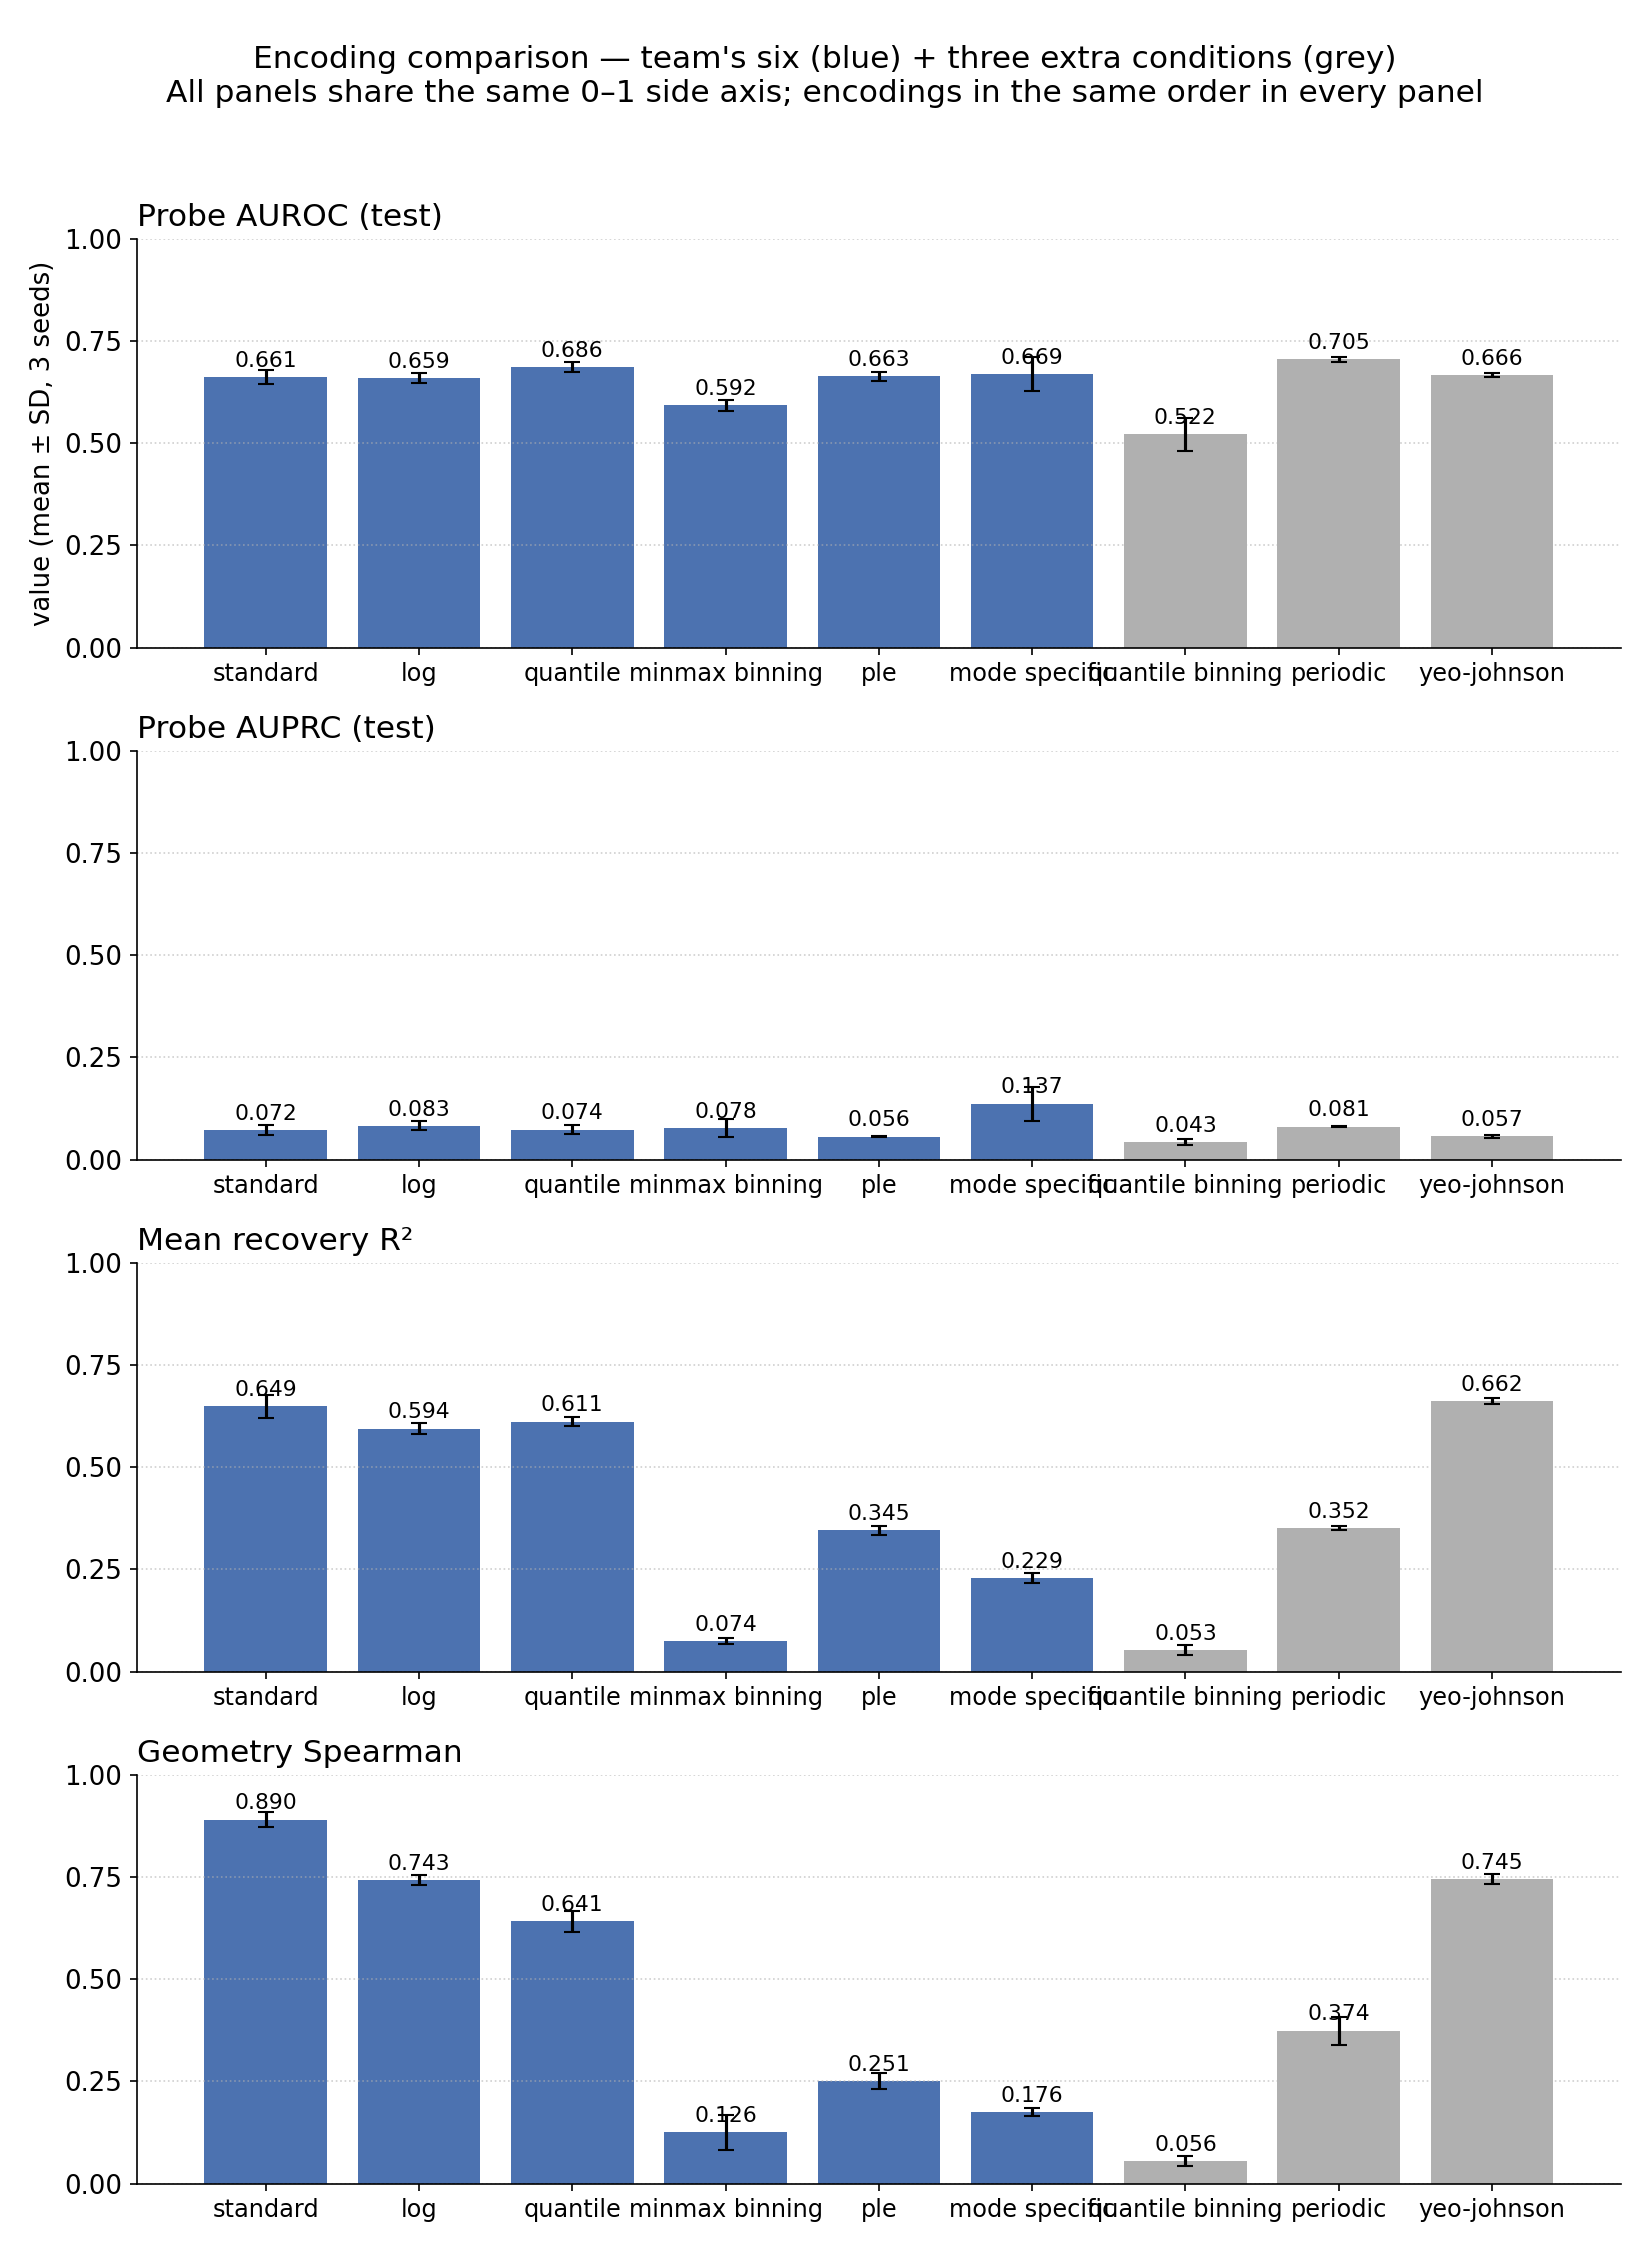
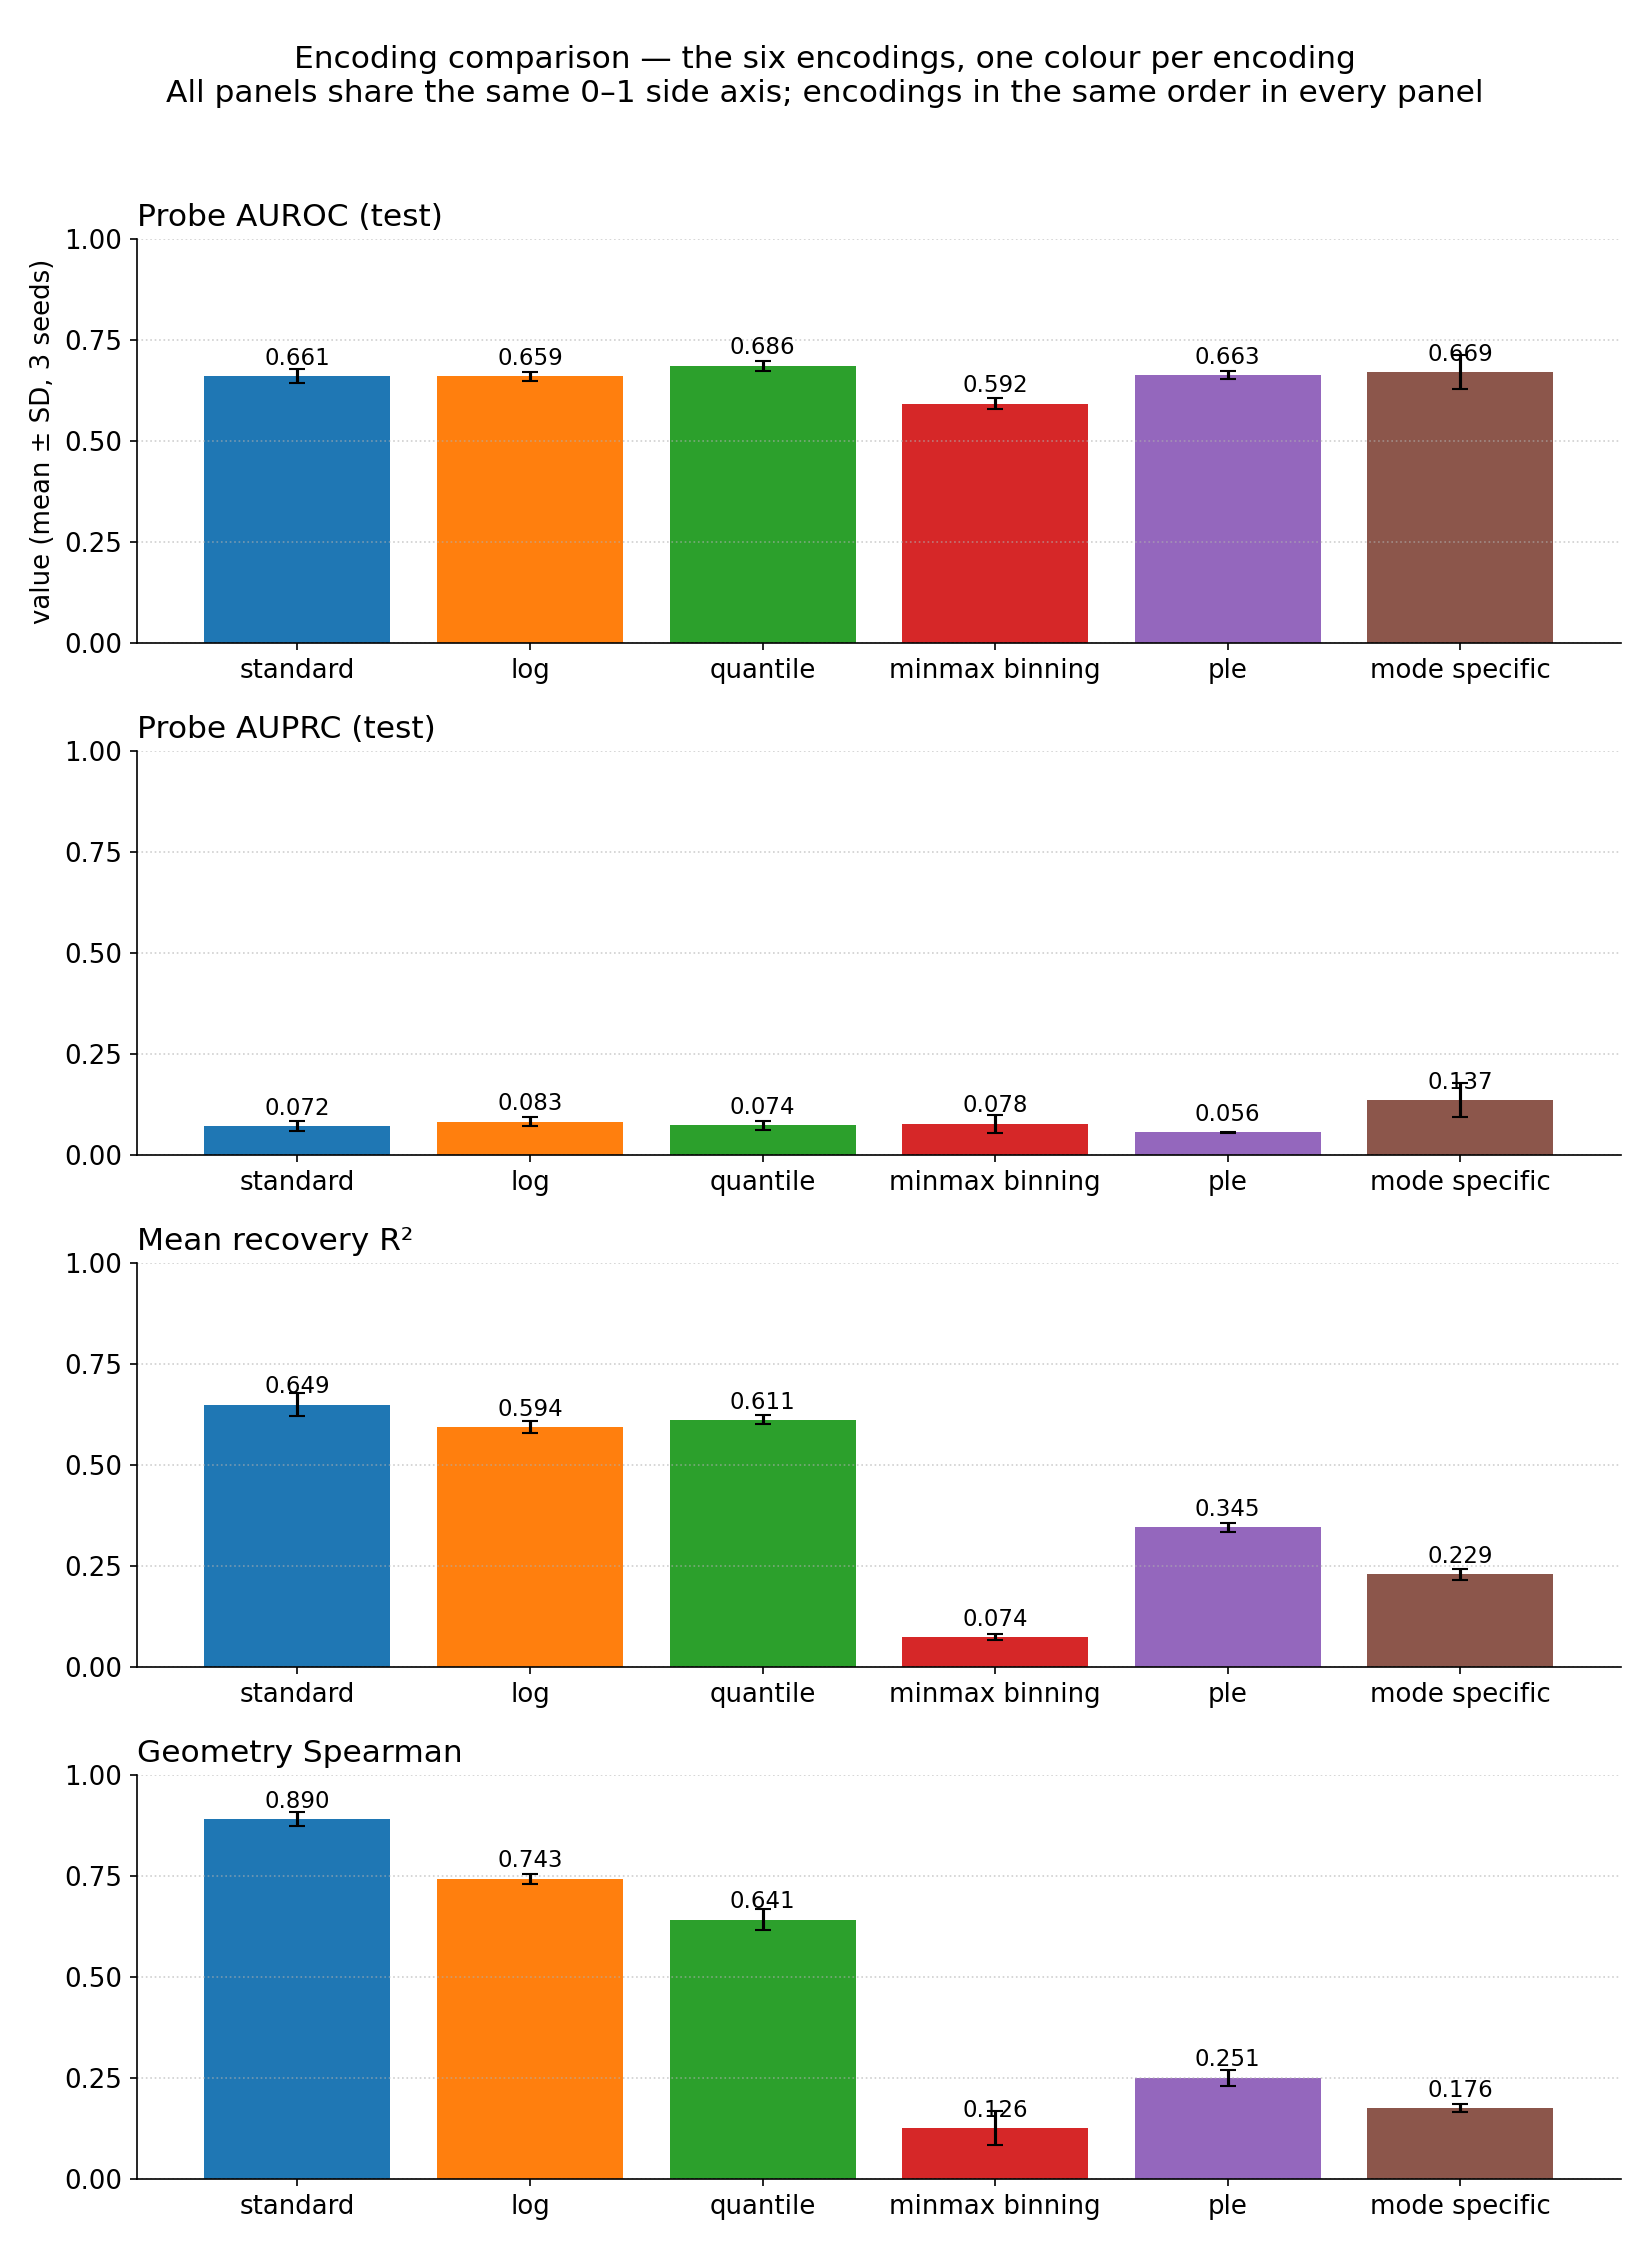
PR6: six encodings only (drop 3 extras), one colour per encoding in figure

diff --git a/results/progress_report6.tex b/results/progress_report6.tex
@@ -31,7 +31,7 @@ in the number of learnable parameters across encodings; (4) finalize the
 evaluation metrics (downstream prediction, feature recovery, geometry
 preservation) against standardized-feature baselines; and (5) build a
 reproducible pipeline and experiment table before running the experiments.
-All five items are complete: we ran 36 experiments (9 encodings $\times$ 3
+All five items are complete: we ran 24 experiments (6 encodings $\times$ 3
 seeds under parameter-matched capacity, plus fixed-capacity contrasts) and
 report the results below.
 
@@ -39,7 +39,7 @@ report the results below.
 Our riskiest open question has changed shape. We expected encodings to trade
 off prediction against fidelity; instead the two dissociate --- the encoding
 with the most collapsed latent geometry (mode-specific) gives the best
-ranking of the rare outcome, and both binning schemes fail catastrophically
+ranking of the rare outcome, and the binning encoding fails catastrophically
 in the VAE while scalar encodings barely differ. We do not yet know whether
 this dissociation is a property of the encodings or an artifact of the tiny
 demo sample (11 test deaths), and resolving that on the full eICU data is
@@ -78,13 +78,10 @@ Encoding & Probe AUROC & Probe AUPRC & Recovery $R^2$ & Geometry (Spearman) \\
 \hline
 Standard & 0.661 $\pm$ 0.020 & 0.072 $\pm$ 0.015 & \textbf{0.649 $\pm$ 0.034} & \textbf{0.890 $\pm$ 0.021} \\
 Log & 0.659 $\pm$ 0.015 & 0.083 $\pm$ 0.014 & 0.594 $\pm$ 0.017 & 0.743 $\pm$ 0.016 \\
-Quantile & 0.686 $\pm$ 0.015 & 0.074 $\pm$ 0.014 & 0.611 $\pm$ 0.014 & 0.641 $\pm$ 0.032 \\
+Quantile & \textbf{0.686 $\pm$ 0.015} & 0.074 $\pm$ 0.014 & 0.611 $\pm$ 0.014 & 0.641 $\pm$ 0.032 \\
 Min--max binning & 0.592 $\pm$ 0.017 & 0.078 $\pm$ 0.027 & 0.074 $\pm$ 0.008 & 0.126 $\pm$ 0.052 \\
 PLE & 0.663 $\pm$ 0.013 & 0.056 $\pm$ 0.001 & 0.345 $\pm$ 0.014 & 0.251 $\pm$ 0.025 \\
 Mode-specific & 0.669 $\pm$ 0.051 & \textbf{0.137 $\pm$ 0.051} & 0.229 $\pm$ 0.015 & 0.176 $\pm$ 0.012 \\
-\textit{Extra: quantile binning} & \textit{0.522} & \textit{0.043} & \textit{0.053} & \textit{0.056} \\
-\textit{Extra: periodic} & \textbf{\textit{0.705}} & \textit{0.081} & \textit{0.352} & \textit{0.374} \\
-\textit{Extra: Yeo-Johnson} & \textit{0.666} & \textit{0.057} & \textbf{\textit{0.662}} & \textit{0.745} \\
 \end{tabular}%
 }
 \caption{Encoding comparison on the test split (345 stays, 11 deaths).
@@ -95,25 +92,25 @@ the reconstruction target's scale.}
 \begin{figure}
 \centering
 \includegraphics[width=0.95\columnwidth]{fig_week6_all_encodings.png}
-\caption{Per-metric comparison with error bars across all nine encodings
-(team's six in blue, three extra conditions in grey), eICU demo data.}
+\caption{Per-metric comparison with error bars across the six encodings
+(one colour per encoding), eICU demo data.}
 \end{figure}
 
 \textbf{H1 mostly not supported.} Standard scaling already recovers
 creatinine ($R^2$ 0.80), glucose (0.80), and BUN (0.78) best. Only the most
-extreme feature, WBC, needs a monotone transform (log 0.36, Yeo-Johnson
-0.36, quantile 0.34, vs standard $-$0.05).
+extreme feature, WBC, needs a monotone transform (log 0.36,
+quantile 0.34, vs standard $-$0.05).
 \textbf{H2 supported with a twist.} Mode-specific normalization has the
 worst structure (recovery 0.23, geometry 0.18, KL $\approx$ 0.03) yet the
 best probe AUPRC (0.137, $\approx$1.9$\times$ standard). Prediction and
 fidelity dissociate.
-\textbf{H3 supported, more strongly than stated.} Both binning schemes
-collapse in the VAE (recovery $\leq$ 0.07, geometry $\leq$ 0.13, near-zero
-KL), under both fairness settings and all seeds --- a property of binning
-here, not of the binning scheme or of training.
+\textbf{H3 supported, more strongly than stated.} Min--max binning
+collapses in the VAE (recovery 0.07, geometry 0.13, near-zero KL), under
+both fairness settings and all seeds --- a property of the binned
+representation under this VAE, not of training.
 \textbf{H4 not supported.} Oxygen saturation is recovered best by scalar
-encodings (Yeo-Johnson 0.51, standard 0.50) and worst by log (0.11).
-\textbf{H5 mostly supported.} Probe AUROC spans only 0.66--0.71 across all
+encodings (standard 0.50, quantile 0.49) and worst by log (0.11).
+\textbf{H5 mostly supported.} Probe AUROC spans only 0.66--0.69 across all
 non-binning encodings. Directly answering last report's open question: the
 standardized baseline is a good representation, and no encoding beat it
 overall --- gains are metric-specific (mode-specific for ranking the rare
@@ -134,8 +131,7 @@ baselines, ablations) before the project deadline.
 \subsection{Individual Contributions}
 This week we designed and ran the systematic comparison of numerical
 encoding strategies. Owen implemented the experiment pipeline and the
-parameter-fair training protocol, ran the 36-run grid including the log and
-min--max binning conditions, and produced the comparison tables and figures.
+parameter-fair training protocol, ran the 24-run grid across the six encodings, and produced the comparison tables and figures.
 Max [ \ldots ]. Rita [ \ldots ]. Throughout the week we discussed the
 hypotheses, reviewed each other's code and results, and planned the
 full-data re-run together.
